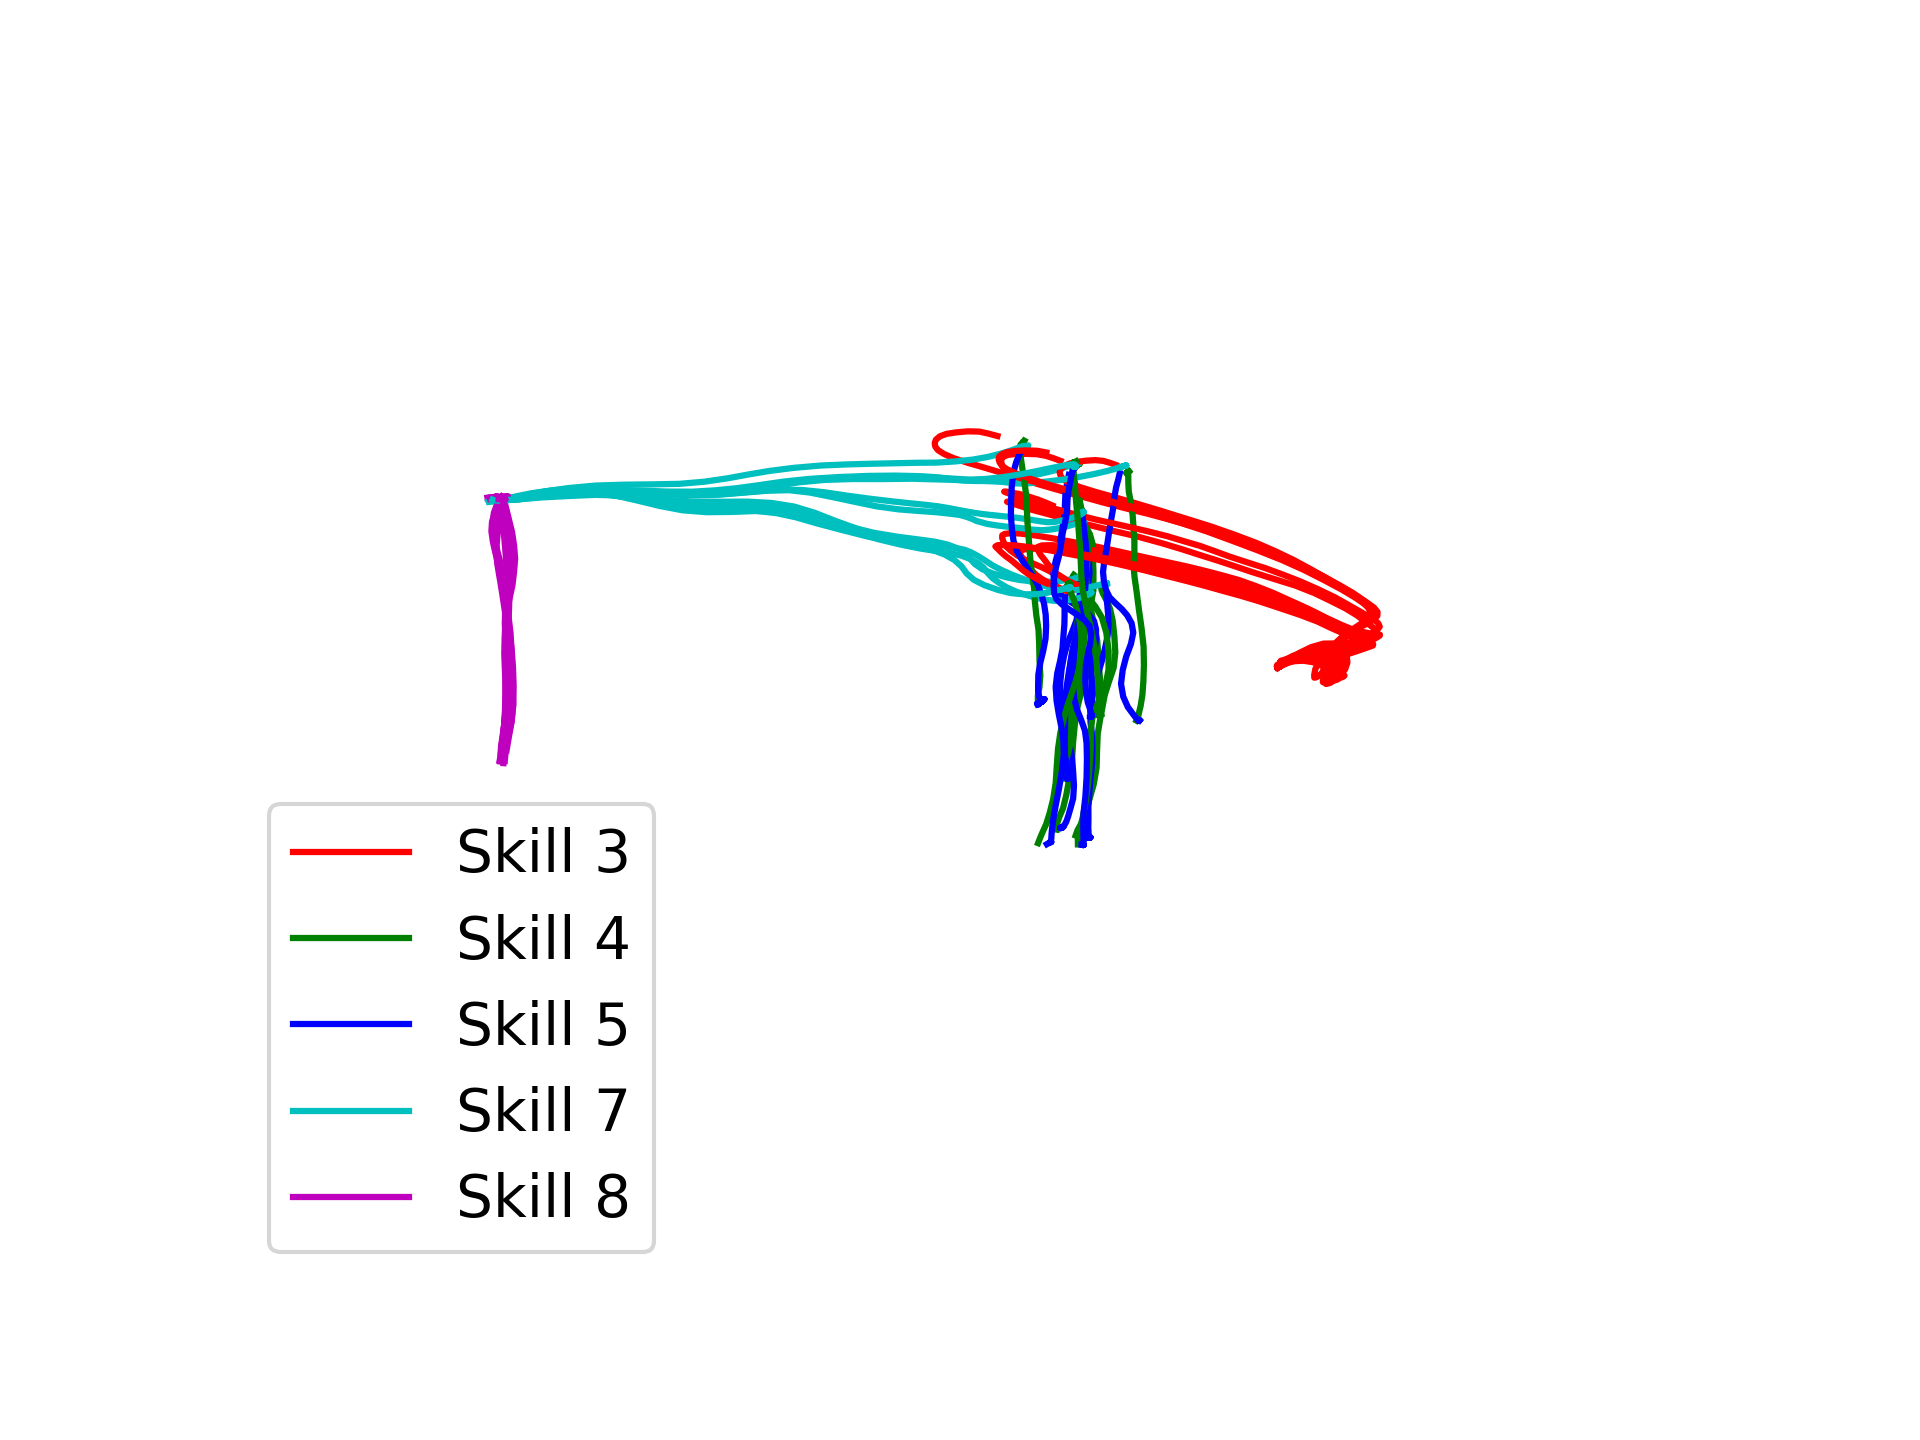
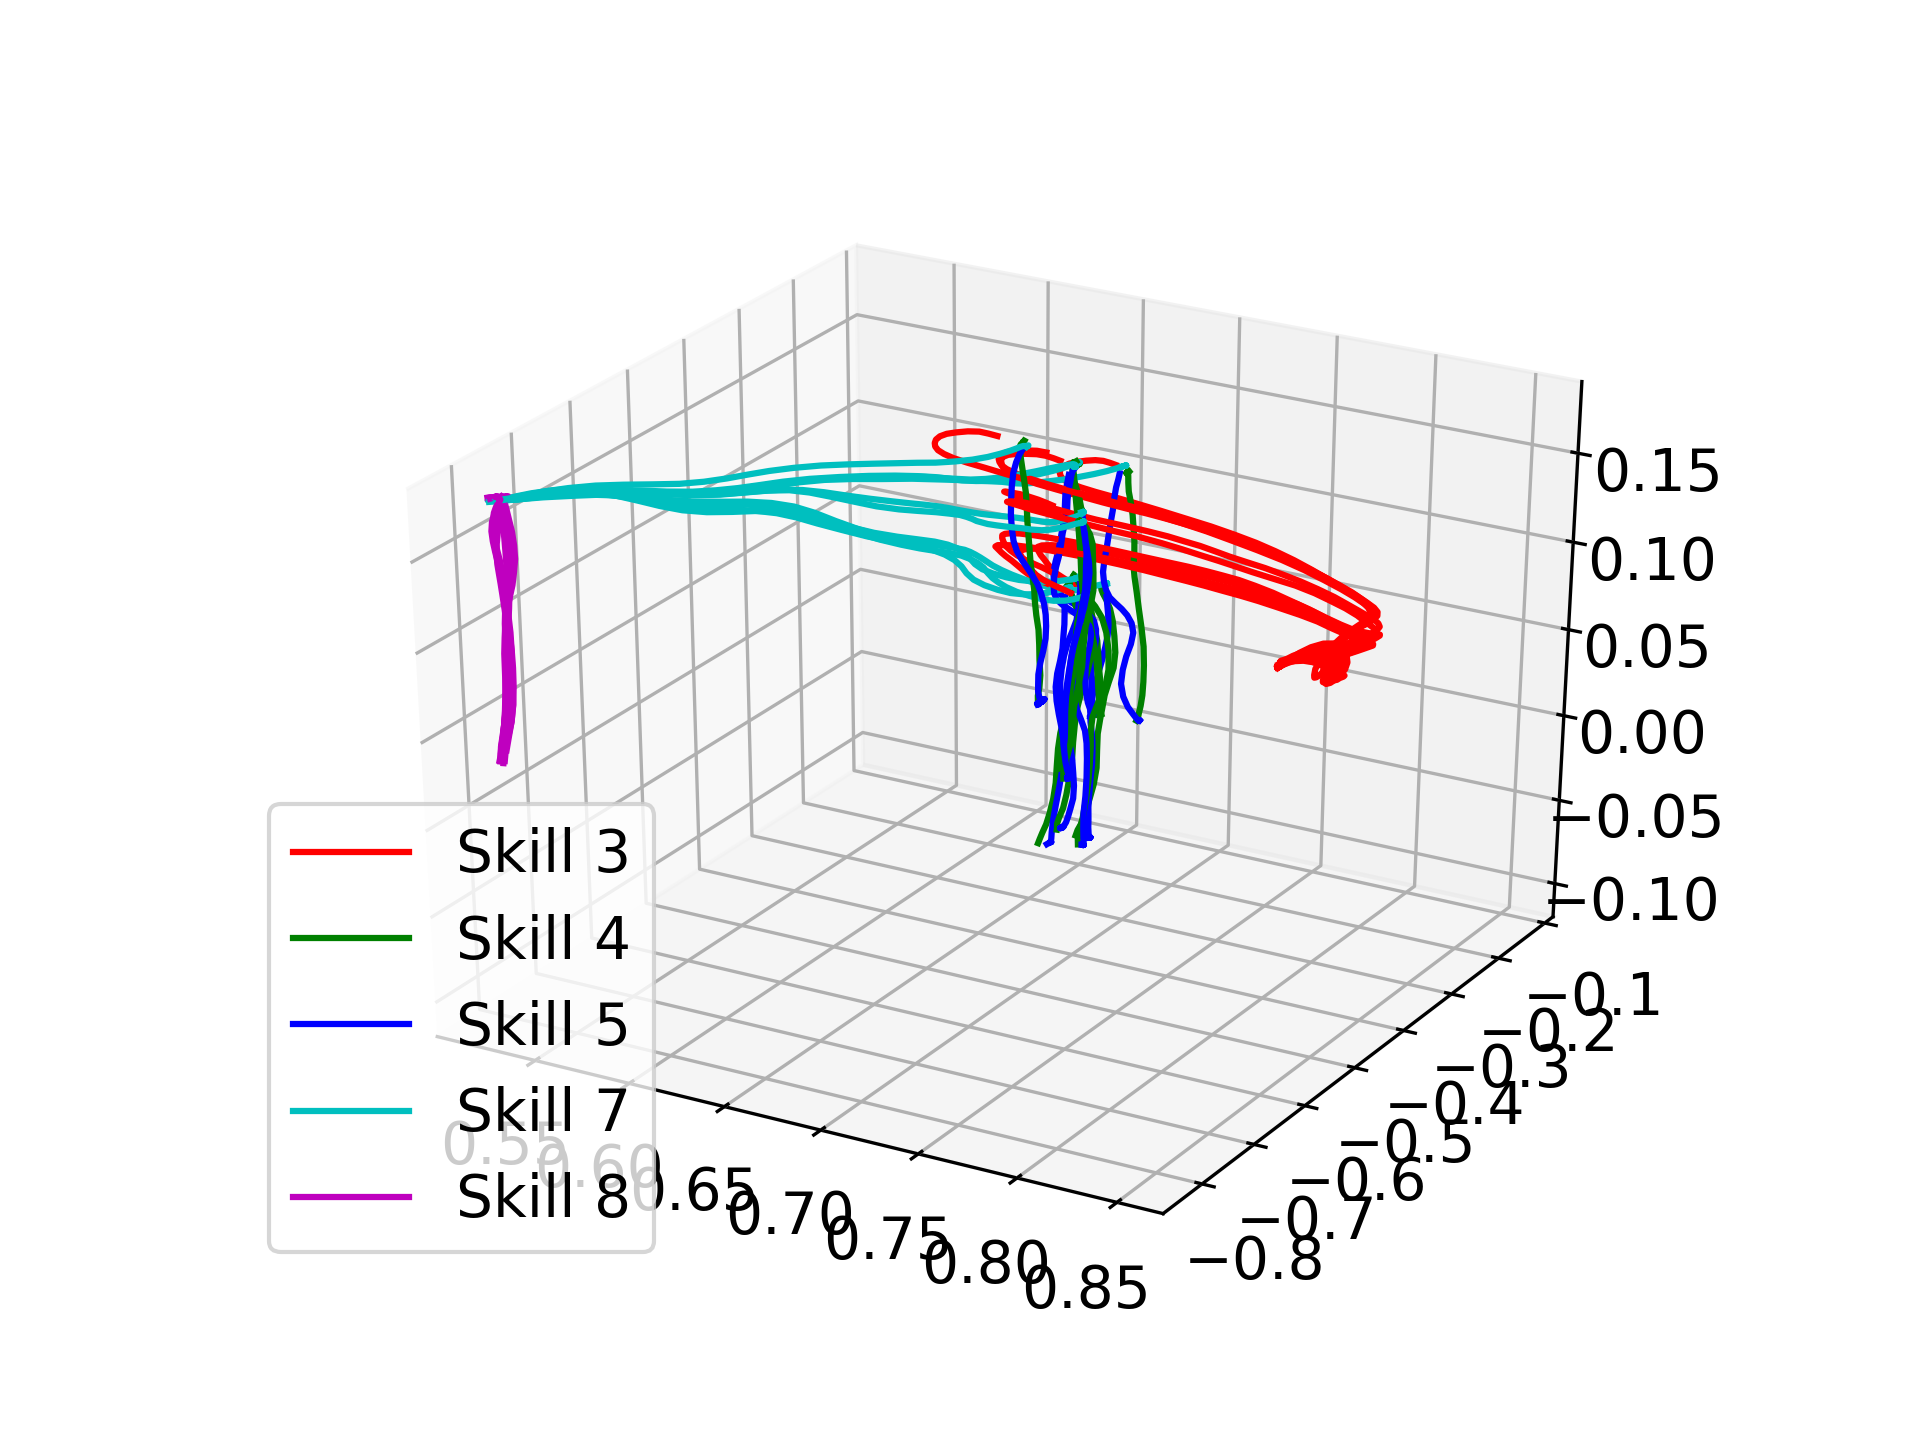
for plotting all the whole exp

diff --git a/src/paper_graph_plotter/2018journal_anomaly_detector_and_classifier/plot_all_succ_skills/plot_all_wholde_exp_pose.py b/src/paper_graph_plotter/2018journal_anomaly_detector_and_classifier/plot_all_succ_skills/plot_all_wholde_exp_pose.py
@@ -1,0 +1,91 @@
+import glob
+import os
+import coloredlogs, logging
+import pickle
+import matplotlib.pyplot as plt
+import matplotlib
+matplotlib.rcParams.update({'font.size': 12})
+plt.rcParams["font.family"] = "Time New Roman"
+from mpl_toolkits.mplot3d import Axes3D
+import numpy as np
+import pandas as pd
+from collections import OrderedDict
+import ipdb
+coloredlogs.install()
+
+if __name__ == '__main__':
+    logger = logging.getLogger()
+    dir_of_this_script = os.path.dirname(os.path.realpath(__file__))
+    data_path = "/home/birl-spai-ubuntu14/baxter_ws/src/SPAI/smach_based_introspection_framework/birl_anomaly_dataset/anomaly_detection_feature_selection_folder/No.0 filtering scheme/whole_experiment"
+    
+    fig = plt.figure()
+    ax = fig.gca(projection='3d', adjustable='box')
+    colors = {3:'r',
+              4:'g',
+              5:'b',
+              7:'c',
+              8:'m',
+              9:'y'
+                  }
+    for i, csv in enumerate(glob.glob(os.path.join(data_path, "*", "*csv"))):
+        print i
+        print csv
+        print 
+        df = pd.read_csv(csv)
+        s_t = df.iloc[0, 0]
+        df.iloc[:, 0] = df.iloc[:, 0]-s_t
+
+        tag_ranges = pickle.load(open(os.path.join(os.path.dirname(csv), 'tag_ranges.pkl'), 'rb'))
+        tag_stime = []
+        for tag, (st, et) in tag_ranges:
+            tag_stime.append((tag, st.to_sec()-s_t, et.to_sec()-s_t))
+        
+
+        for tag, start, end in tag_stime:
+            if int(tag) != 0:
+                if int(tag) < 0 or int(tag) >= 1000:
+                    print ('Ignore the anomaly tag < 0 or tag >= 1000')
+                    continue
+                else:
+                    tag_df = df.loc[(df['Unnamed: 0'] >= start) & (df['Unnamed: 0'] <= end)]
+                    select_list = ['baxter_enpoint_pose.pose.position.x',
+                                   'baxter_enpoint_pose.pose.position.y',
+                                   'baxter_enpoint_pose.pose.position.z']
+                    values = tag_df[select_list].values
+                    ax.plot(values[:,0],values[:,1],values[:,2], color=colors[tag], label='Skill ' + str(tag), alpha=0.5)
+                    try:
+                        ax.scatter(values[0,0],values[0,1],values[0,2], c = colors[tag], label = "start")
+                    except Exception as e:
+                        logger.error("error encountered ")
+                        continue
+                    
+#                    ax.scatter(values[-1,0],values[-1,1],values[-1,2], c = 'blue' , label = "end")        
+        # xmin,xmax = ax.get_xlim()
+        # ymin,ymax = ax.get_ylim()
+
+        # for tag, start, end in tag_stime:
+        #     if int(tag) != 0:
+        #         if int(tag) < 0:
+        #             print ('Ignore the anomaly tag < 0')
+        #             continue
+        #             c = 'red'
+        #         else:
+        #             c = 'green'
+        #         # ax.axvline(start, c=c)
+        #         # ax.text(start, ymax-0.05*(ymax-ymin), 'skill %s'%tag, color=c, rotation=-90)
+        #     else:
+        #         print ('Ignore the useless tag=0')
+        #         continue
+        #         ax.axvline(start, c = 'gray')   
+        # ax.set_ylabel("Scaled Value")
+        if i > 100: break
+    handles, labels = plt.gca().get_legend_handles_labels()
+    by_label = OrderedDict(zip(labels, handles))
+    plt.legend(by_label.values(), by_label.keys())
+       
+    output_dir = os.path.join(dir_of_this_script, 'plots')        
+    if not os.path.isdir(output_dir):
+        os.makedirs(output_dir)
+    fig.savefig(os.path.join(output_dir, "multi_whole_exps.png"),format='png', dpi=300)
+    plt.show()
+        

diff --git a/src/paper_graph_plotter/2018journal_anomaly_detector_and_classifier/plot_all_succ_skills/plot_all_succ_skills_pose.py b/src/paper_graph_plotter/2018journal_anomaly_detector_and_classifier/plot_all_succ_skills/plot_all_succ_skills_pose.py
@@ -16,7 +16,8 @@ coloredlogs.install()
 
 if __name__ == '__main__':
     logger = logging.getLogger()
-    dir_of_this_script = os.path.dirname(os.path.realpath(__file__))    
+    dir_of_this_script = os.path.dirname(os.path.realpath(__file__))
+    
     data_path = '/home/birl-spai-ubuntu14/baxter_ws/src/SPAI/smach_based_introspection_framework/birl_anomaly_dataset/anomaly_detection_feature_selection_folder/No.0 filtering scheme/successful_skills/skill 3'
     
     fig = plt.figure()
@@ -32,10 +33,12 @@ if __name__ == '__main__':
         df.iloc[:, 0] = df.iloc[:, 0]-s_t
         select_list = ['baxter_enpoint_pose.pose.position.x','baxter_enpoint_pose.pose.position.y','baxter_enpoint_pose.pose.position.z']
         values = df[select_list].values
-        ax.plot(values[:,0],values[:,1],values[:,2])
-    # handles, labels = plt.gca().get_legend_handles_labels()
-    # by_label = OrderedDict(zip(labels, handles))
-    # plt.legend(by_label.values(), by_label.keys())
+        ax.plot(values[:,0],values[:,1],values[:,2], label = "position")
+        ax.scatter(values[0,0],values[0,1],values[0,2], c = "gray", label = "start")
+        ax.scatter(values[-1,0],values[-1,1],values[-1,2], c = 'blue' , label = "end")        
+    handles, labels = plt.gca().get_legend_handles_labels()
+    by_label = OrderedDict(zip(labels, handles))
+    plt.legend(by_label.values(), by_label.keys())
     # Get rid of colored axes planes
     # First remove fill
     ax.xaxis.pane.fill = False
